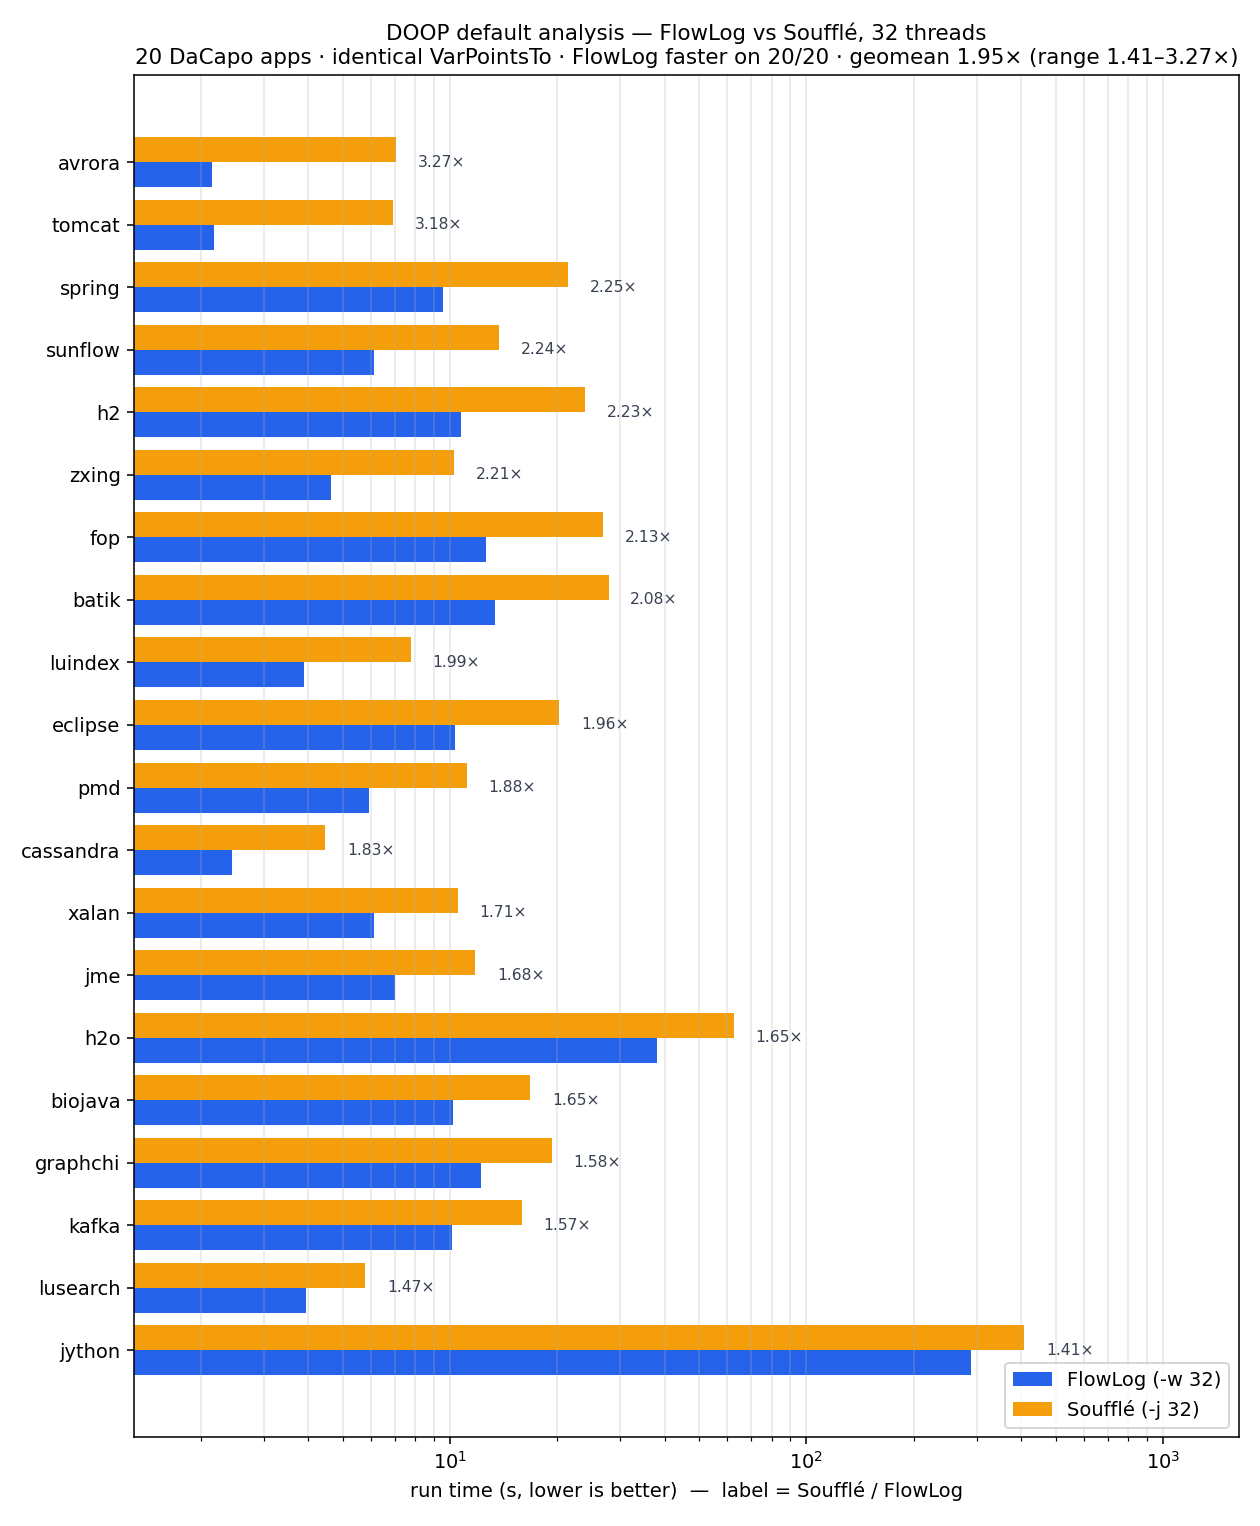
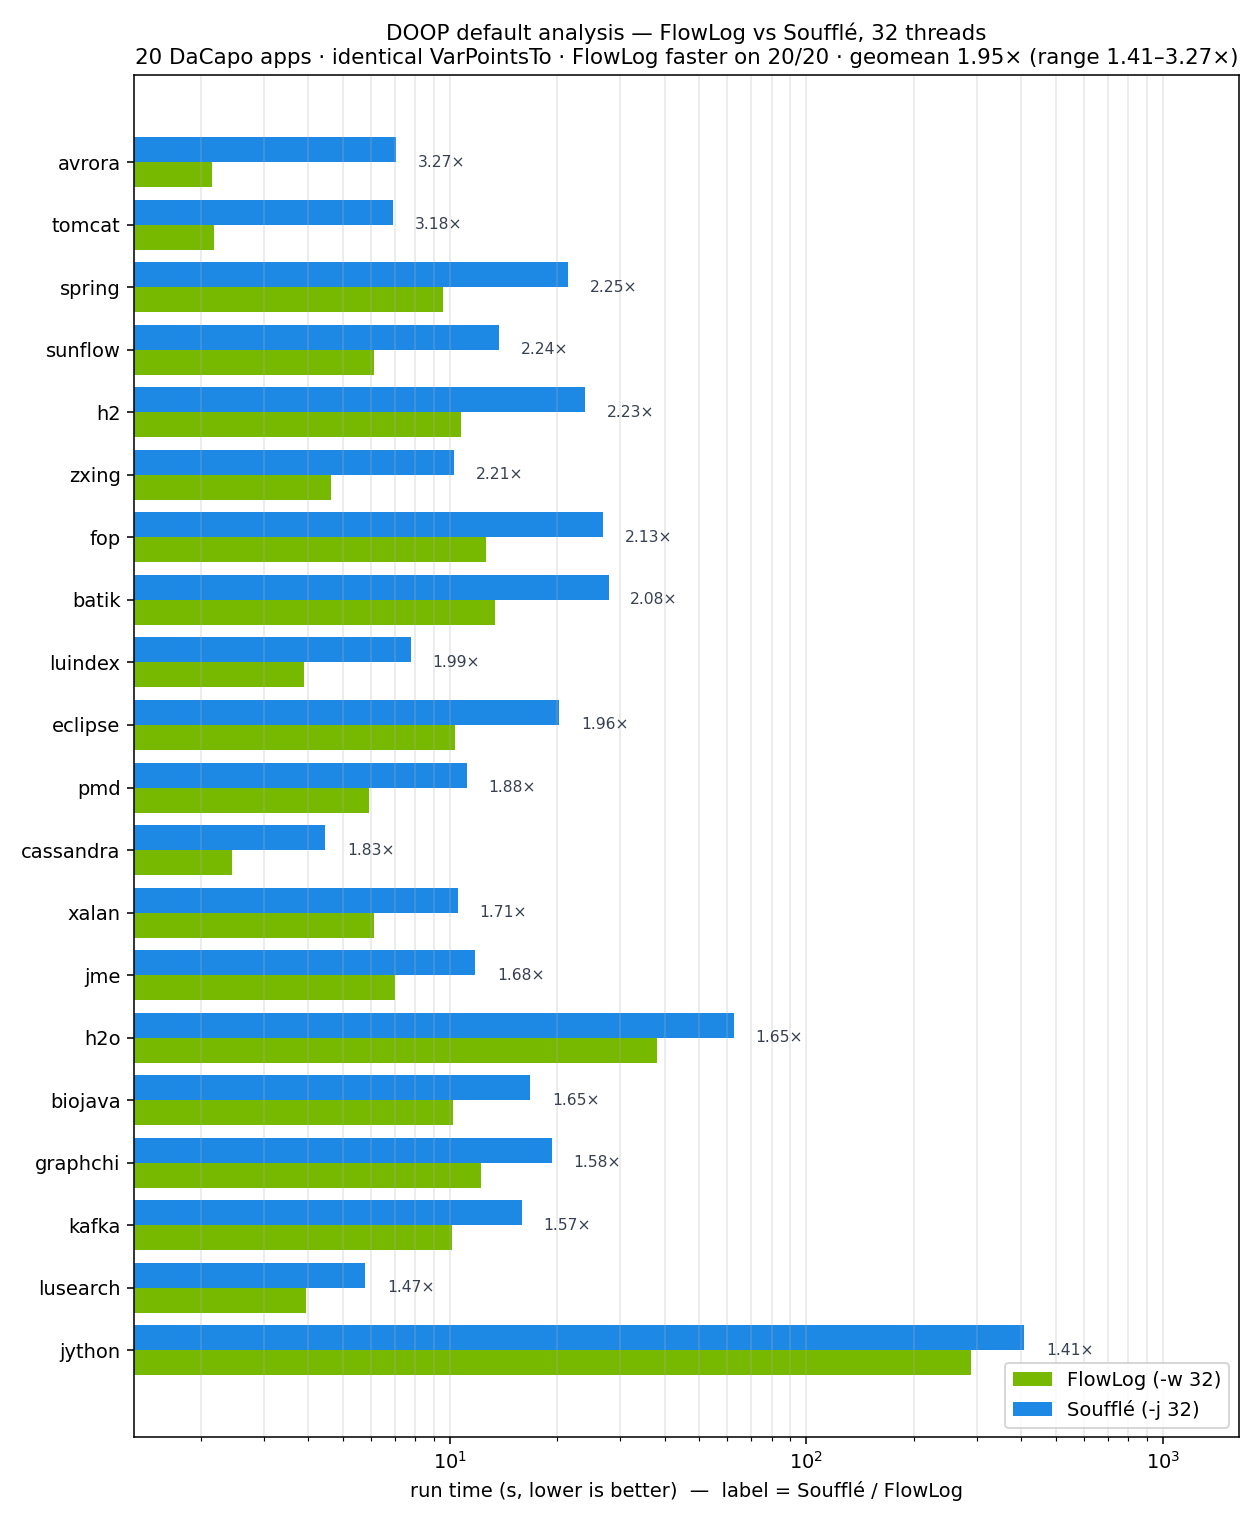
docs: restyle README in SiriusDB colors (green/blue), sirius-like intro
Recolor benchmark plots to SiriusDB's palette (FlowLog = NVIDIA green
#76B900, Souffle = blue #1E88E5) and the badge row to green. Add a concise
sirius-style intro paragraph with a performance headline and a closing line.

Changed region(s): [[0.0929, 0.0924, 0.8357, 0.9548]]

diff --git a/README.md b/README.md
@@ -14,16 +14,18 @@
 </p>
 
 <p align="center">
-  <a href="https://crates.io/crates/flowlog-build"><img alt="flowlog-build on crates.io" src="https://img.shields.io/crates/v/flowlog-build?style=flat-square&logo=rust&label=flowlog-build"/></a>
-  <a href="https://docs.rs/flowlog-build"><img alt="flowlog-build docs" src="https://img.shields.io/docsrs/flowlog-build?style=flat-square&logo=docsdotrs&label=docs"/></a>
+  <a href="https://crates.io/crates/flowlog-build"><img alt="flowlog-build on crates.io" src="https://img.shields.io/crates/v/flowlog-build?style=flat-square&logo=rust&label=flowlog-build&color=76B900"/></a>
+  <a href="https://docs.rs/flowlog-build"><img alt="flowlog-build docs" src="https://img.shields.io/docsrs/flowlog-build?style=flat-square&logo=docsdotrs&label=docs&color=76B900"/></a>
   &nbsp;
-  <a href="https://crates.io/crates/flowlog-runtime"><img alt="flowlog-runtime on crates.io" src="https://img.shields.io/crates/v/flowlog-runtime?style=flat-square&logo=rust&label=flowlog-runtime"/></a>
-  <a href="https://docs.rs/flowlog-runtime"><img alt="flowlog-runtime docs" src="https://img.shields.io/docsrs/flowlog-runtime?style=flat-square&logo=docsdotrs&label=docs"/></a>
+  <a href="https://crates.io/crates/flowlog-runtime"><img alt="flowlog-runtime on crates.io" src="https://img.shields.io/crates/v/flowlog-runtime?style=flat-square&logo=rust&label=flowlog-runtime&color=76B900"/></a>
+  <a href="https://docs.rs/flowlog-runtime"><img alt="flowlog-runtime docs" src="https://img.shields.io/docsrs/flowlog-runtime?style=flat-square&logo=docsdotrs&label=docs&color=76B900"/></a>
   &nbsp;
-  <a href="LICENSE"><img alt="License: Apache-2.0" src="https://img.shields.io/badge/license-Apache--2.0-blue?style=flat-square"/></a>
+  <a href="LICENSE"><img alt="License: Apache-2.0" src="https://img.shields.io/badge/license-Apache--2.0-76B900?style=flat-square"/></a>
 </p>
 
 > **Status** · Under active development; interfaces may change without notice.
+
+Built on [Timely](https://github.com/TimelyDataflow/timely-dataflow) and [Differential Dataflow](https://github.com/TimelyDataflow/differential-dataflow), FlowLog pairs fast batch Datalog with first-class **incremental maintenance** — outputs update without recomputation as facts change. On the DOOP points-to analysis it runs **~2× faster than Soufflé** across all 20 DaCapo programs at 32 threads, with identical results.
 
 ## Quick Start
 
@@ -148,3 +150,5 @@ Full methodology and per-program numbers live in [`flowlog-bench`](https://githu
 ## Contributing
 
 Issues and pull requests are welcome. PRs must pass CI before merge.
+
+**Let's make Datalog fast — and incremental.**